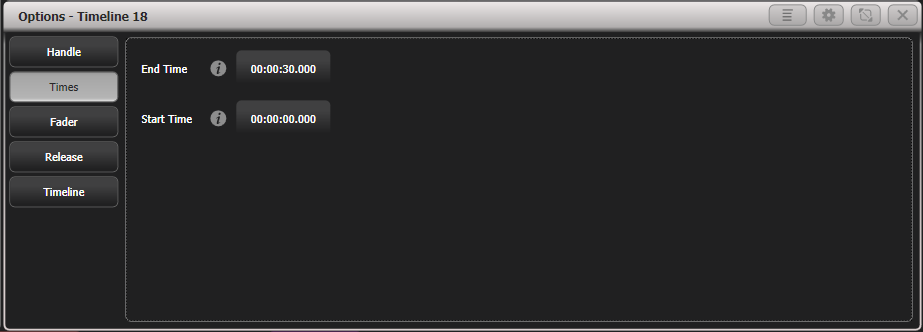
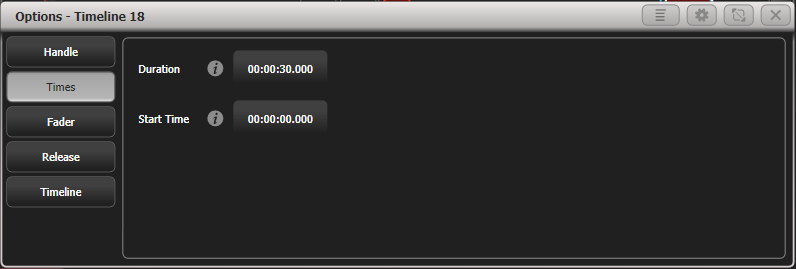
Changes after first review

Changed region(s): [[0.0, 0.0, 1.0, 1.0]]

diff --git a/docs/timelines/running-and-editing-timelines.md b/docs/timelines/running-and-editing-timelines.md
@@ -4,18 +4,17 @@ title: Running and Editing Timelines
 sidebar_label: Running and Editing Timelines
 ---
 
+
 Running a timeline to timecode
 ------------------
 
-The HTP (intensity) of fixtures in the timeline is controlled by the fader level of the handle. 
+The HTP (intensity) of fixtures in the timeline is controlled by the fader level of the handle. The console will automatically fire the timeline playback to full when timecode is received within the range of the timeline settings (you can turn this off using the option [Autoload in Range](../timelines/timeline-options.md#timecode-tab)).
 
 1.  Ensure the **timecode link** button (bottom left of the timeline view) is set to **Linked**.
 
-2.  Push up the fader of the handle where the timeline is stored.
+2.  Start the timecode source. (You will need to push up the timeline fader for internal timecode or if you have disabled the autoload option described above).
 
-3.  Start the timecode source. 
-
-4.  The cues in the timeline will run when the timecode reaches their programmed times.
+3.  The cues in the timeline will run when the timecode reaches their programmed times.
 
 - On consoles with motorised faders and on virtual faders, the faders will move as programmed.
 
@@ -23,7 +22,7 @@ The HTP (intensity) of fixtures in the timeline is controlled by the fader level
 
 - You can set the timeline to loop (when using internal timecode), see [Timeline Options - Timecode](../timelines/timeline-options.md#timecode-tab).
 
-- If you start the timecode at a point part way through the timeline, any active triggers will fire, but previous triggers will not - this might result in fixtures starting from a different state and changing the look.
+- If you start the timecode at a point part way through the timeline, any active triggers will fire, but the state of LTP attributes on fixtures might be different because previous triggers have not fired in the usual sequence - this might result in a different look to what you programmed. You can use the [Timeline Options - Release](../timelines/timeline-options.md#release-tab) settings to help make this more predictable.
 
 ### Testing a timeline
 
@@ -36,17 +35,17 @@ Timeline Editing
 ### Selecting triggers
 
 To edit a trigger, you need to select it. There are several different ways to do this.
--   Click on a trigger block to select all the trigger points within the block. You will see selection 
-    handles appear.  Click again on a selected trigger block to step through the
+-   Tap on a trigger block to select all the trigger points within the block. You will see selection 
+    handles appear.  Tap again on a selected trigger block to step through the
     trigger points within the block. 
 
 ![Timeline trigger handles](/docs/images/Timeline-Handles.png)
 
-- Click on more triggers to add them to the selection.
+- Tap on more triggers to add them to the selection.
 
-- Draw a selection marquee box over the trigger points you want to select. Only the trigger points enclosed by the selection box will be selected, so if you want to select all points in a block they all need to be inside the box. This is a quick way to select one trigger point without having to "multi-click" on a block.
+- Draw a selection marquee box over the trigger points you want to select. Only the trigger points enclosed by the selection box will be selected, so if you want to select all points in a block they all need to be inside the box. This is a quick way to select one trigger point without having to "multi-tap" on a block.
 
-- To clear all selection use the context menu button \{Clear Trigger Selection\} or click in an empty area of the Timeline View.
+- To clear all selection use the context menu button \{Clear Trigger Selection\} or tap in an empty area of the Timeline View.
 
 ### Using arrow buttons to move trigger selection
 
@@ -59,13 +58,13 @@ If nothing is selected, the right arrow will select the first trigger on the tra
 
 ### Using the wheels to edit triggers
 
-When you have one or more trigger points selected, the wheels control the time, level and fade of those triggers.
+When you have one or more trigger points selected, the wheels control the time, level and fade of those triggers (some types of trigger do not have all these parameters).
 
-- Left hand wheel sets the time.
-- Middle wheel sets the level.
-- Right hand wheel sets the fade.
+- Wheel A sets the time.
+- Wheel B sets the level.
+- Wheel C sets the fade.
 
-You can change multiple triggers at the same time using the wheels.
+You can change multiple triggers at the same time by selecting them all and using the wheels.
 
 ### Using the overview bar
 
@@ -83,19 +82,20 @@ The **Overview Bar** at the bottom of the Timeline View gives you a miniature vi
 
 ### Deleting triggers
 
-You can delete trigger blocks by pressing \<Delete\> then tapping on the block you want to delete.
+You can delete trigger blocks by pressing \<Delete\> then tapping on the block you want to delete, or drawing a marquee selection box over the triggers to be deleted.
 
 You can also delete tracks or delete rows from tracks using this method.
 
 ### Setting track legends and halo colours on tracks
 
-To help you identify different tracks, you can set a halo colour for each track. This colour outlines the track and also sets the colours of the trigger blocks which makes them easier to see in the overview bar.
+To help you identify different tracks, you can set halo colours. This colour outlines the track and also sets the colours of the trigger blocks which makes them easier to see in the overview bar.
+In addition you can set different colours for the playback actions within each track as shown in Track 2 in the picture below.
 
 ![Timeline halo](/docs/images/Timeline-Halo.png)
 
 1. Press \[Set Legend\] at the top level main menu.
 
-2. Tap on the Track number in the Timeline View.
+2. Tap on the Track legend or the playback row in the Timeline View.
 
 3. Change \[Legend\] to set the track legend or press \[Halo\].
 
@@ -104,6 +104,8 @@ To help you identify different tracks, you can set a halo colour for each track.
 - You can remove a halo colour by pressing \[Remove Halo\] at step 4.
 
 - You can also set legends on markers using the \[Set Legend\] button.
+
+- You can set a halo colour for a **Wait for Go** trigger by tapping on it at step 2.
 
 ### Snap options
 
@@ -121,8 +123,9 @@ If you have a lot of tracks, you can collapse them to a single line to show more
 
 ### Table view
 
-You can switch the Timeline View to a table version using the \{Open Table View\} context button. 
+You can show a table version of the Timeline using the \{Open Table View\} context button. 
 This shows details for each trigger in time order, in the same format as a cue list. Buttons down the left hand side allow you to filter which tracks are shown in the list.
+You can have the Table View and the Timeline View open at the same time.
 
 ![Timeline table view](/docs/images/Timeline-Table-View.png)
 

diff --git a/docs/timelines.md b/docs/timelines.md
@@ -8,7 +8,8 @@ Timelines allow you to create a precisely timed light show which you can either
 run from the console's internal timer or synchronise to an external timecode
 source. This can be useful for an opening sequence for a corporate
 event, a complex song in a show where the song is pre-recorded or run to 
-a click track or timecode, or a multimedia event run to a playback track.
+a click track or timecode, or a multimedia event run to a playback track. You
+can also use it to create [complicated one-shot effects](./timelines/timeline-options.md#fader-tab) for busking.
 
 > You can also create timed shows by creating timecoded cues in 
 [cue-lists](./cue-lists/cue-list-timing.md#running-a-cue-list-to-timecode), but Timeline 
@@ -29,8 +30,9 @@ of the playback.
 Triggers
 ------------------
 
-To program a timeline you record actions, or **Triggers**, at specific times
-which can then be replayed by the console with the same timing.
+To program a timeline you record actions at specific times
+which can then be replayed by the console with the same timing. These
+are called **Triggers**.
 
 The following types of trigger can be recorded. You can record these actions in real time using **Live Record**
 or enter them as manual triggers at specified times using the touch screen.
@@ -66,10 +68,12 @@ You can select one of the four available timecode sources to control your timeli
 
 To set up and enable each of the timecode sources as Internal, MIDI, Clock or SMPTE use the \[Timecode\] softkey at the top level main menu.
 
-Local timecode controls
+Timecode linking and local timecode controls
 ------------------
 
-The \{Link\} button in the bottom left of the Timeline View window links or unlinks the timeline with the timecode source. Especially with external timecode, it's useful when recording and editing to be able to control the timecode yourself rather than having to continually ask the video guys to rewind the source. So when this button is set to unlinked, you can control the timeline playback using the buttons in the top left corner of the Timeline View window as you would with an audio player. If you are using Internal Timecode as a timecode source then these buttons will also operate the Internal Timecode source while linked.
+The \{Link\} button in the bottom left of the Timeline View window links or unlinks the timeline with the timecode source. Especially with external timecode, it's useful when recording and editing to be able to control the timecode yourself rather than having to continually ask the video guys to rewind the source. So when this button is set to unlinked, you can control the timeline playback using the buttons in the top left corner of the Timeline View window as you would with an audio player. 
+
+- If you are using Internal Timecode or Winamp as a timecode source then these buttons will also operate the local Timecode source while linked (and will play/pause Winamp if that is the timecode source).
 
 ![Timeline transport controls](/docs/images/Timeline-Timecode-Transport.png)
 
@@ -79,7 +83,7 @@ The \{Link\} button in the bottom left of the Timeline View window links or unli
 - \{ Stop \} stops playing and sets the live timecode back to zero.
 - \{ Record \} enters live record mode but doesn't start timecode playback.
 
-When you are linked to a timecode (except Internal Timecode), the first four buttons are replaced by the timecode source name and only the Record button is shown.
+When you are linked to a timecode (except Internal Timecode and Winamp), the first four buttons are replaced by the timecode source name and only the Record button is shown.
 
 ![Timeline external timecode controls](/docs/images/Timeline-Timecode-ExternalTransport.png)
 
@@ -100,11 +104,13 @@ The overview bar at the bottom of the screen gives you a view of the whole timel
 Moving around the timeline view with the wheels
 -----------------
 
-Using the context menu option \{Timeline Wheels\} you can set the wheels to control your view.
+Using the context menu option \{Timeline Wheels\} you can set the wheels to control your view, when no triggers are selected.
 The wheel functions are
 - Wheel A: Horizontal scroll
 - Wheel B: Vertical scroll
 - Wheel C: Zoom
+
+If any triggers are selected, the wheels control Time, Level and Fade of the selected trigger(s).
 
 Cursor
 -----------------
@@ -127,7 +133,9 @@ You can also select the tool using the \{Tool Pan\}/\{Tool Select\} context menu
 Table view
 ------------------
 
-You can switch the Timeline View to a table version which shows details for each trigger in time order, in the same format as a cue list. Buttons down the left hand side allow you to filter which tracks are shown in the list.
+Using the \{Open Table View\} context menu button, you can open the timeline as a **table** which shows details for each trigger in time order, in the same format as a cue list. Buttons down the left hand side allow you to filter which tracks are shown in the list.
 See [Table View](./timelines/running-and-editing-timelines.md#table-view).
 
 ![Timeline table view](/docs/images/Timeline-Table-View.png)
+
+- You can show both the Timeline Table View and the graphical Timeline View at the same time.

diff --git a/docs/timelines/creating-a-timeline.md b/docs/timelines/creating-a-timeline.md
@@ -17,30 +17,34 @@ Live record is useful to capture a busked show, where you are operating the play
 
 This is how you program a timeline using Live Record, from playbacks which you have previously programmed:
 
-1. If you want to use internal timer rather than feeding in a timecode source, ensure the "Timecode Disconnect" \{Link\} button is selected to show a broken link.
+1. If you want to use internal timecode for recording rather than feeding in a timecode source, ensure the "Timecode Disconnect" \{Link\} button is selected to show a broken link.
 
 2. Press \<Record\>, \[Timeline\], then the **Select button** of the fader where you want to store the timeline. The Timeline View window will automatically open.
 
-3. Press the \{Record\} button in the top left of the Timeline View window. 
+3. Press the \{O\} (record) button in the top left of the Timeline View window. 
 
-4. Select which track on the timeline you want to record onto using the \[Track\] softkey. 
-You can add triggers to an existing track or create a new track - by default Titan will create a new track.
+4. Select which track on the timeline you want to record onto using the \[Track\] softkey or tap on the flashing dotted area of the track you want to use. 
+You can add triggers to an existing track or create a new track by tapping on the blank area at the bottom.
 
-5. When you are ready to start, press the \[Start Live Record\] softkey. The workspaces will be outlined in red but recording will not begin until the timecode is started.
+    ![Timeline quick record dotted tracks](/docs/images/Timeline-Quickrecord-Dotted.png)
 
-6. For internal timecode source, press the \{>\} button in the top left of the timeline window to start the timecode running. If you are using an external timecode source, start it.
+5. Tap again on the track to start recording (or press the \[Start Live Record\] softkey). The workspaces will be outlined in red but recording will not begin until the timecode is started.
+
+6. For internal timecode source, press the \{>\} (play) button in the top left of the timeline window to start the timecode running. If you are using an external timecode source, start it.
 
 7. Now when you make any of the above trigger actions on the console, you will see a trigger recording appear on the timeline. The time range you have recorded is highlighted in red on the timeline view.
 
-8. When you have finished recording press the \{Record\} button again and stop the timecode.
+8. When you have finished recording press the \{O\} (record) button again and stop the timecode.
 
 You should now see all the triggers you have created laid out on the timeline.
+
+- When using internal timecode, pressing \{O\} (record) then \{>\} (play) will automatically start Live Recording.
 
 - While you are in Live Record, the console will follow the Timeline Release settings as you've programmed them in the [Timeline Options - Release tab](../timelines/timeline-options.md#release-tab), which may make playbacks behave differently to how they are programmed. A warning is displayed in the system prompt area to show you what release settings are in effect.
 
 ### Auto Simplify
 
-Normally while you are recording, the \[Auto Simplify\] option is enabled. When you stop the recording, this will simplify your fader movements to a few fade points rather than a large number of points which are difficult to edit and can slow Titan down. If you really need to capture an exotic fader movement you can turn this option off, but to help keep playback responsive we advise to leave it on where you can.
+Normally while you are recording, the \[Auto Simplify\] option is enabled. When you stop the recording, this will simplify your fader movements to a few trigger points with linear fades rather than a large number of points which are difficult to edit. If you really need to capture an exotic fader movement you can turn this option off, but to help keep your timeline easy to edit you should leave it on where you can.
 
 Trigger with multiple points during Live Record:
 

diff --git a/docs/timelines/timeline-options.md b/docs/timelines/timeline-options.md
@@ -19,8 +19,9 @@ All options are the same as for a cue, see [Options](../cues/playback-options.md
 
 ![Timeline Options: Times](/docs/images/Timeline-Options-Times.png)
 
-These options let you set the end time and start time of the timeline. These times set the loop points when you are using the 
-[Loop function](../timelines/timeline-options.md#timecode-tab) or can be used to set limits on the timeline so you can be sure nothing will happen if you get sent some wayward timecode.
+These options let you set the duration and start time of the timeline. These set the loop points when you are using the 
+[Loop function](../timelines/timeline-options.md#timecode-tab) or are used to fire the timeline automatically when the timecode is in the correct range.
+They can also be used to set limits on the timeline so you can be sure nothing will happen if you get sent some wayward timecode.
 
 --- 
 
@@ -36,6 +37,7 @@ Option              | Action
 Fader Raised Action | **No Action**: The internal timecode source is not changed (default).<br>Play: The internal timecode source is started.
 Fader Zero Action   | **No Action**: The internal timecode source is not changed (default).<br>Stop: The internal timecode source is stopped. <br>Pause: The internal timecode source is paused at the current time.
 
+> This option is useful for creating a complicated one-shot effect for busking. Create the effect as a timeline using internal timecode and set these options to **Play**/**Stop** - you can fire your effect just by raising the fader and when you lower the fader to zero the effect will reset.
 
 --- 
 
@@ -99,4 +101,4 @@ picture below a small offset of 45 seconds is set.
 
 ### Start Time & Duration
 
-These options are a different way of setting the Start Time / End Time options in the [Options - Times tab](../timelines/timeline-options.md#times-tab).
+These options are a different way of setting the Duration / Start Time options in the [Options - Times tab](../timelines/timeline-options.md#times-tab).
